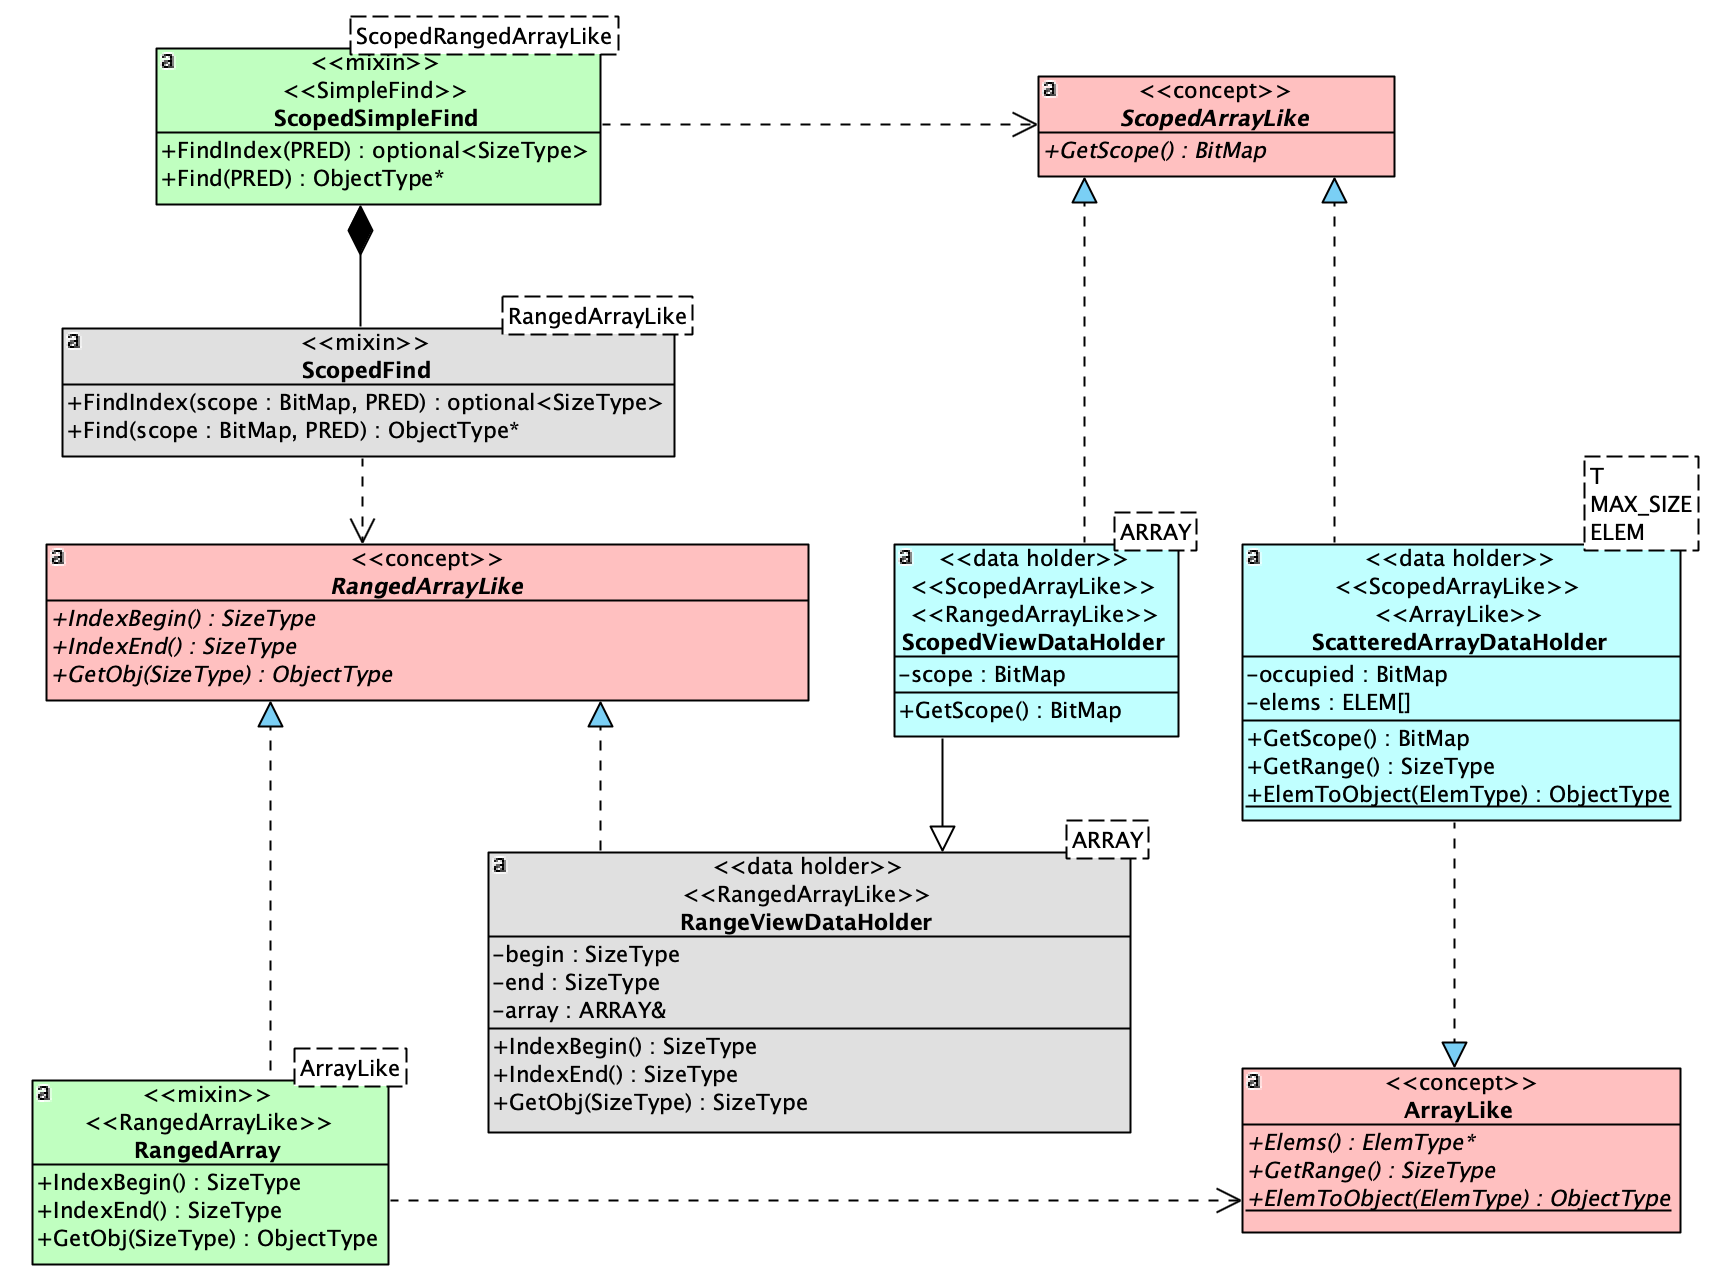
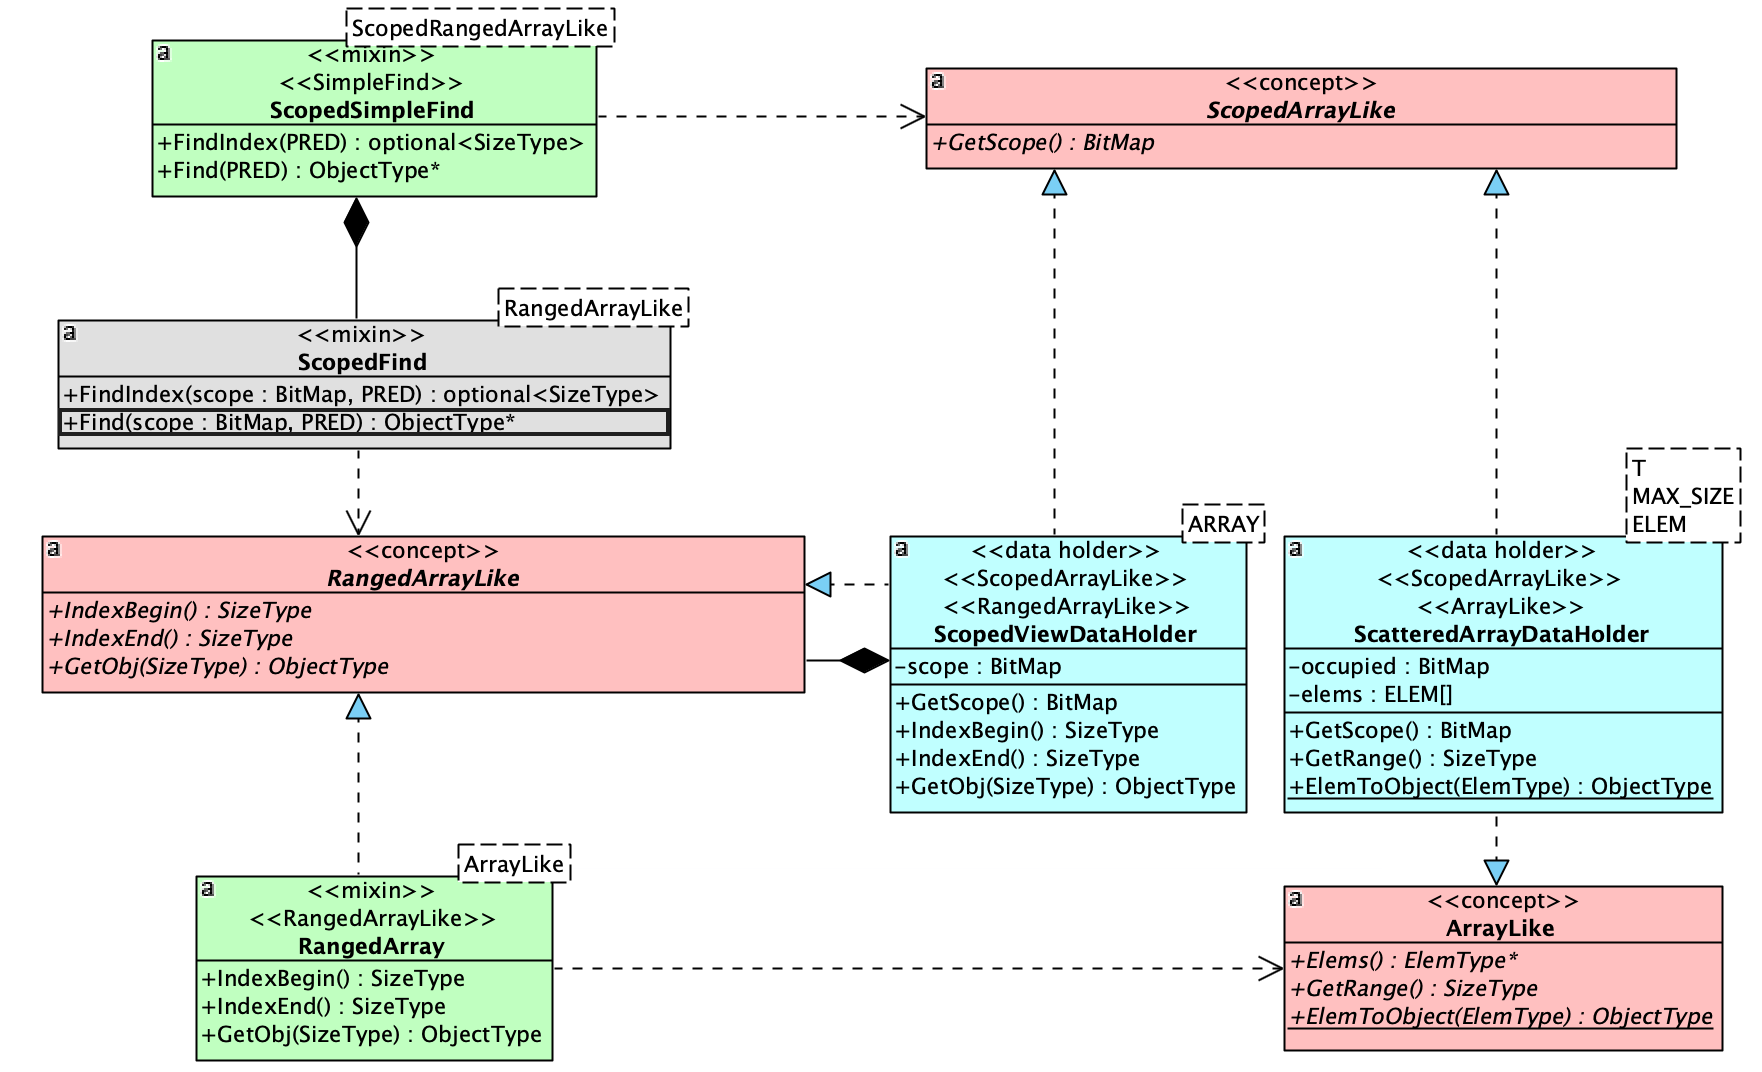
ArrayView Test

diff --git a/doc/source/Mixin.rst b/doc/source/Mixin.rst
@@ -189,5 +189,10 @@ NonScopedSimpleFind
 ScopedSimpleFind
 -------------------------------
 
+`ScopedSimpleFind` 相对于 `NonScopedSimpleFind` ，复杂度稍微上升了一点，因为它需要一个额外的
+接口: ``GetScope`` 。而 ``Find`` 操作，只能在 `scope` 指定的范围内进行。
+
+而 `ScopedView` 与 `ScatteredArray` 都属于此类。它们的关系如下：
+
 .. image:: images/scoped-find.png
 
